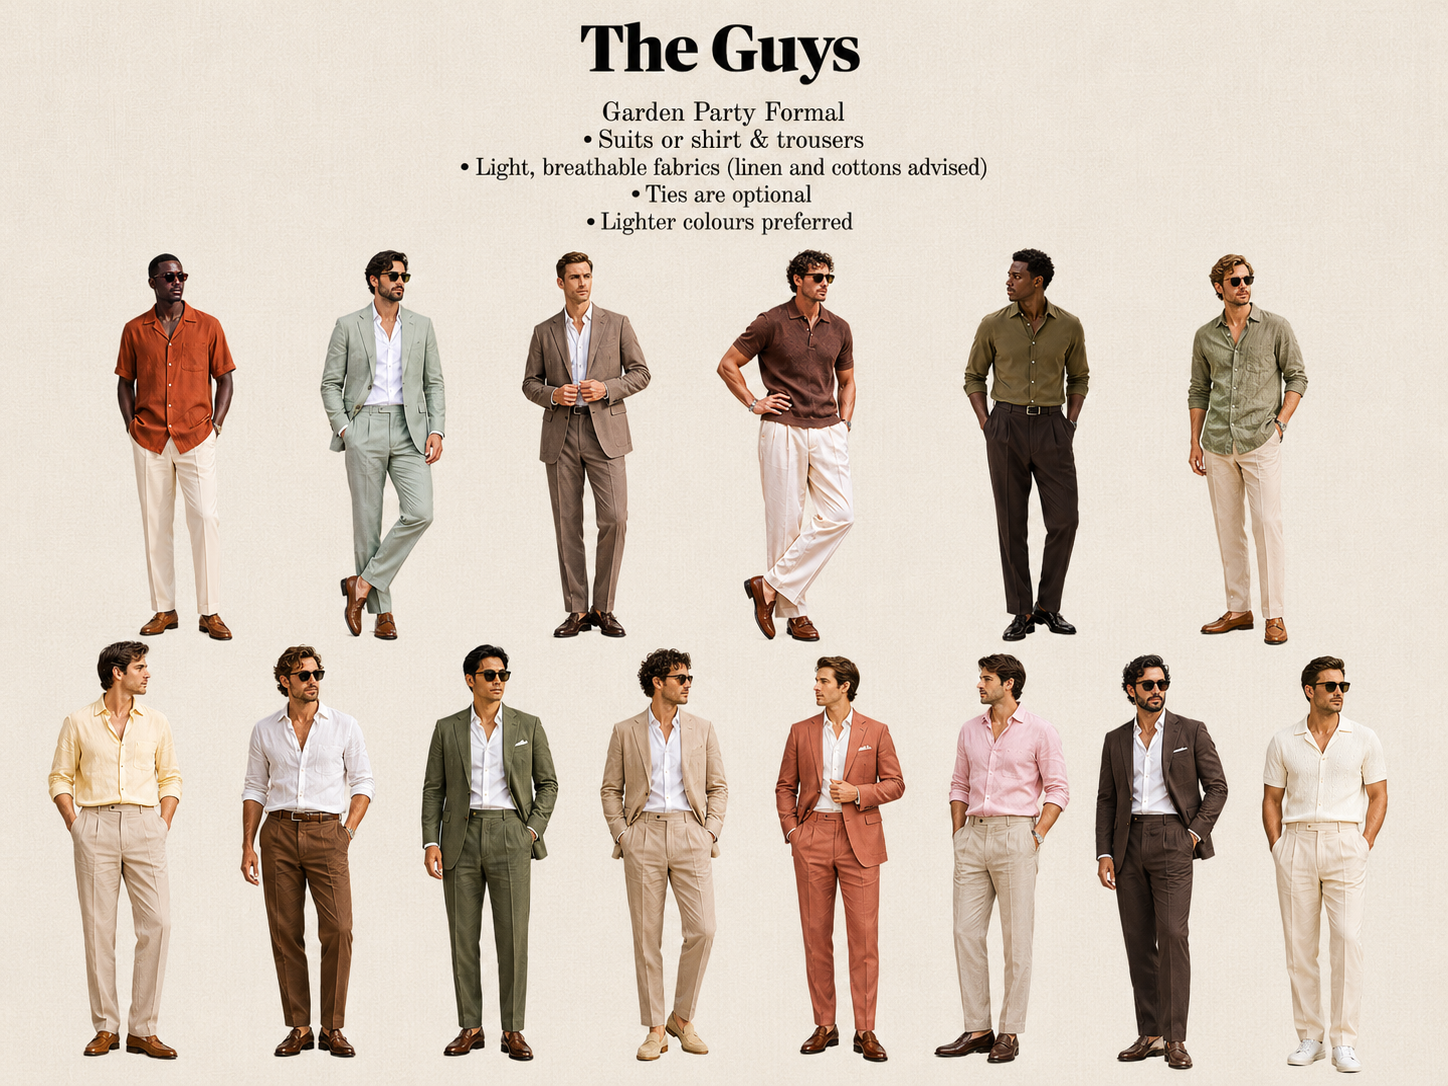
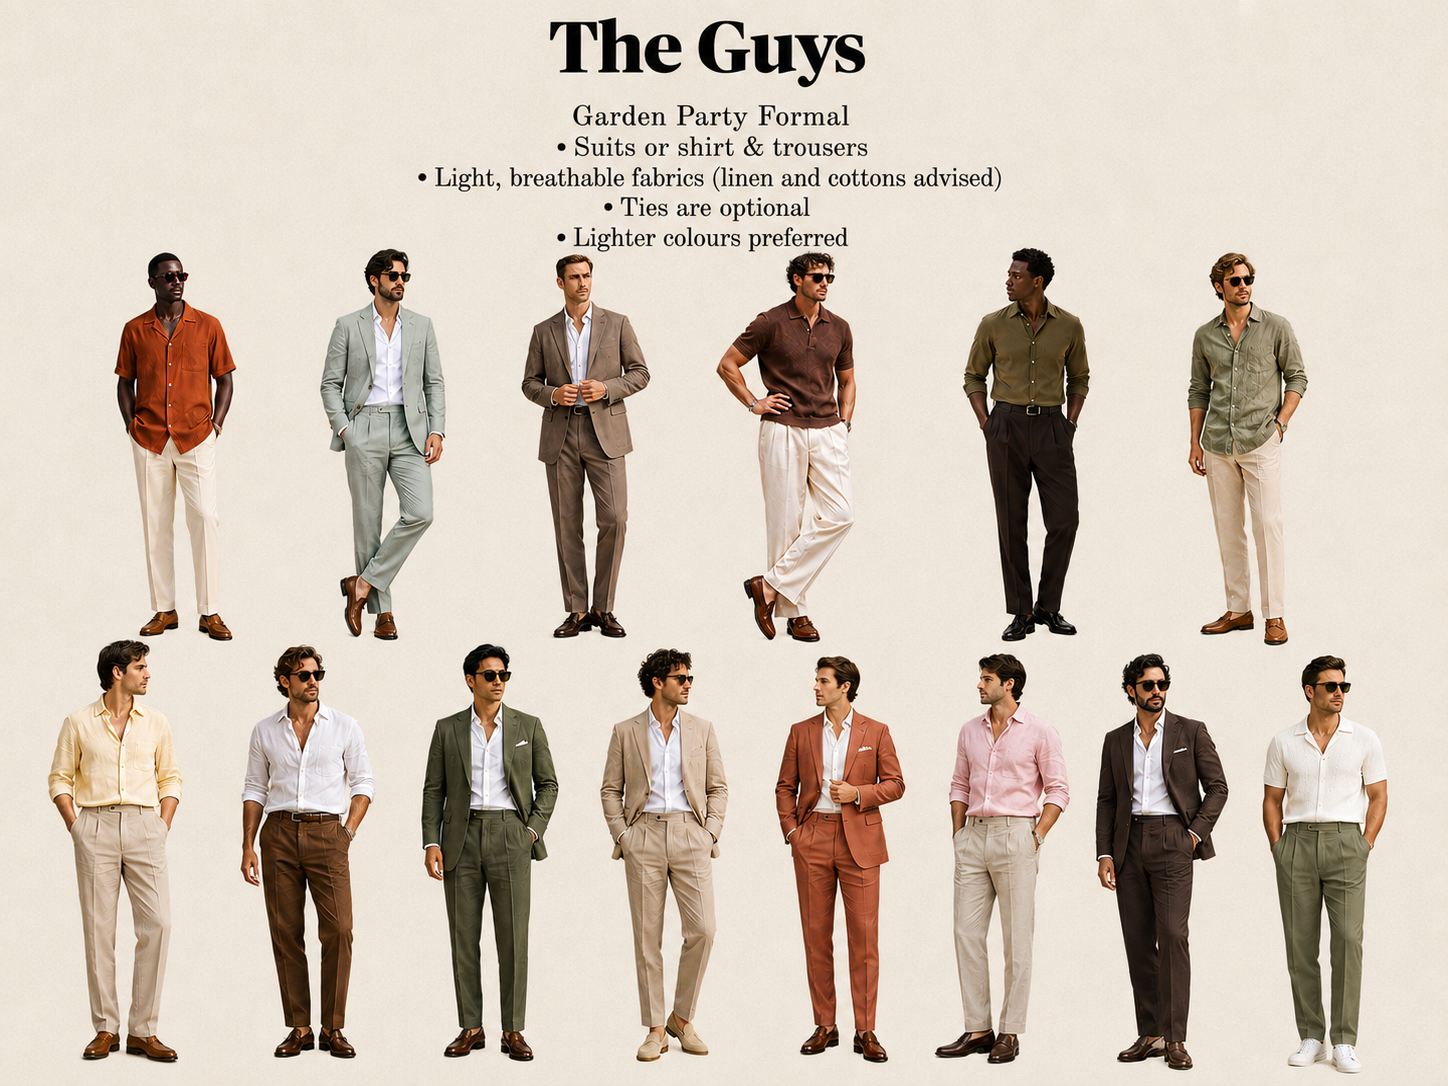
Replace dress code links with inspiration page

diff --git a/src/components/DressCode.tsx b/src/components/DressCode.tsx
@@ -4,15 +4,12 @@ type Props = {
   title: string
   intro: string
   note: string
-  examplesTitle: string
-  womenButton: string
-  menButton: string
+  inspirationButton: string
   colors: string[]
 }
 
-export default function DressCode({ title, intro, note, examplesTitle, womenButton, menButton, colors }: Props) {
-  const ladyLooksHref = `${import.meta.env.BASE_URL}dress-code-lady/`
-  const gentlemanLooksHref = `${import.meta.env.BASE_URL}dress-code-gentleman/`
+export default function DressCode({ title, intro, note, inspirationButton, colors }: Props) {
+  const inspirationHref = `${import.meta.env.BASE_URL}dress-code-inspo/`
 
   return (
     <section className="dresscode">
@@ -24,25 +21,9 @@ export default function DressCode({ title, intro, note, examplesTitle, womenButt
           <div key={i} className="swatch" style={{ background: c }} />
         ))}
       </div>
-      <p className="intro-subtitle dresscode-examples">{examplesTitle}</p>
-      <div className="dresscode-links">
-        <a
-          className="location-link"
-          href={ladyLooksHref}
-          target="_blank"
-          rel="noreferrer"
-        >
-          {womenButton}
-        </a>
-        <a
-          className="location-link"
-          href={gentlemanLooksHref}
-          target="_blank"
-          rel="noreferrer"
-        >
-          {menButton}
-        </a>
-      </div>
+      <a className="location-link dresscode-inspiration-link" href={inspirationHref} target="_blank" rel="noreferrer">
+        {inspirationButton}
+      </a>
     </section>
   )
 }

diff --git a/src/main-dress-code-inspo.tsx b/src/main-dress-code-inspo.tsx
@@ -1,0 +1,20 @@
+import React from 'react'
+import { createRoot } from 'react-dom/client'
+import inspoImage from './assets/dresscode.png'
+
+const container = document.getElementById('root')
+if (!container) {
+  throw new Error('Root container not found')
+}
+
+document.body.style.margin = '0'
+document.body.style.background = '#ffffff'
+
+const root = createRoot(container)
+root.render(
+  <img
+    src={inspoImage}
+    alt="Dress code inspiration"
+    style={{ display: 'block', width: 'auto', maxWidth: '100%', height: 'auto' }}
+  />
+)

diff --git a/src/content.ts b/src/content.ts
@@ -25,9 +25,7 @@ type SiteContent = {
     title: string
     intro: string
     note: string
-    examplesTitle: string
-    womenButton: string
-    menButton: string
+    inspirationButton: string
     colors: string[]
   }
   wishes: {
@@ -86,9 +84,7 @@ export const contentByLocale: Record<Locale, SiteContent> = {
       title: 'Дресс-код',
       intro: 'Мы хотим, чтобы этот день был наполнен легкостью и теплом. Будем рады, если вы поддержите атмосферу нашего праздника, выбрав образ в оттенках нашей цветовой палитры',
       note: '',
-      examplesTitle: 'Вдохновение для образов',
-      womenButton: 'Для дам',
-      menButton: 'Для джентельменов',
+      inspirationButton: 'Вдохновение для образов',
       colors: dressCodeColors
     },
     wishes: {
@@ -143,9 +139,7 @@ export const contentByLocale: Record<Locale, SiteContent> = {
       title: 'Dress Code',
       intro: 'We want this day to be filled with warmth and joy. We would be delighted if you could support the atmosphere of our celebration by choosing an outfit in our color palette',
       note: '',
-      examplesTitle: 'Outfit Inspiration',
-      womenButton: 'For Ladies',
-      menButton: 'For Gentlemen',
+      inspirationButton: 'Outfit Inspiration',
       colors: dressCodeColors
     },
     wishes: {
@@ -200,9 +194,7 @@ export const contentByLocale: Record<Locale, SiteContent> = {
       title: 'Дрес-код',
       intro: 'Ми хочемо, щоб цей день був сповнений легкості та тепла. Будемо раді, якщо ви підтримаєте атмосферу нашого свята, обравши вбрання у відтінках нашої палітри кольорів',
       note: '',
-      examplesTitle: 'Натхнення для образів',
-      womenButton: 'Для дам',
-      menButton: 'Для джентльменів',
+      inspirationButton: 'Натхнення для образів',
       colors: dressCodeColors
     },
     wishes: {

diff --git a/dress-code-inspo/index.html b/dress-code-inspo/index.html
@@ -1,0 +1,12 @@
+<!doctype html>
+<html lang="en">
+  <head>
+    <meta charset="utf-8" />
+    <meta name="viewport" content="width=device-width, initial-scale=1.0" />
+    <title>Dress Code Inspiration</title>
+  </head>
+  <body>
+    <div id="root"></div>
+    <script type="module" src="/src/main-dress-code-inspo.tsx"></script>
+  </body>
+</html>

diff --git a/src/App.tsx b/src/App.tsx
@@ -64,9 +64,7 @@ export default function App({ locale }: Props): JSX.Element {
           title={content.dressCode.title}
           intro={content.dressCode.intro}
           note={content.dressCode.note}
-          examplesTitle={content.dressCode.examplesTitle}
-          womenButton={content.dressCode.womenButton}
-          menButton={content.dressCode.menButton}
+          inspirationButton={content.dressCode.inspirationButton}
           colors={content.dressCode.colors}
         />
         <img src={sep5Image} alt="Section divider" className="section-separator" />

diff --git a/vite.config.ts b/vite.config.ts
@@ -11,6 +11,7 @@ export default defineConfig({
         main: resolve(__dirname, 'index.html'),
         ru: resolve(__dirname, 'ru/index.html'),
         ua: resolve(__dirname, 'ua/index.html'),
+        dressCodeInspo: resolve(__dirname, 'dress-code-inspo/index.html'),
         dressCodeLady: resolve(__dirname, 'dress-code-lady/index.html'),
         dressCodeGentleman: resolve(__dirname, 'dress-code-gentleman/index.html')
       }